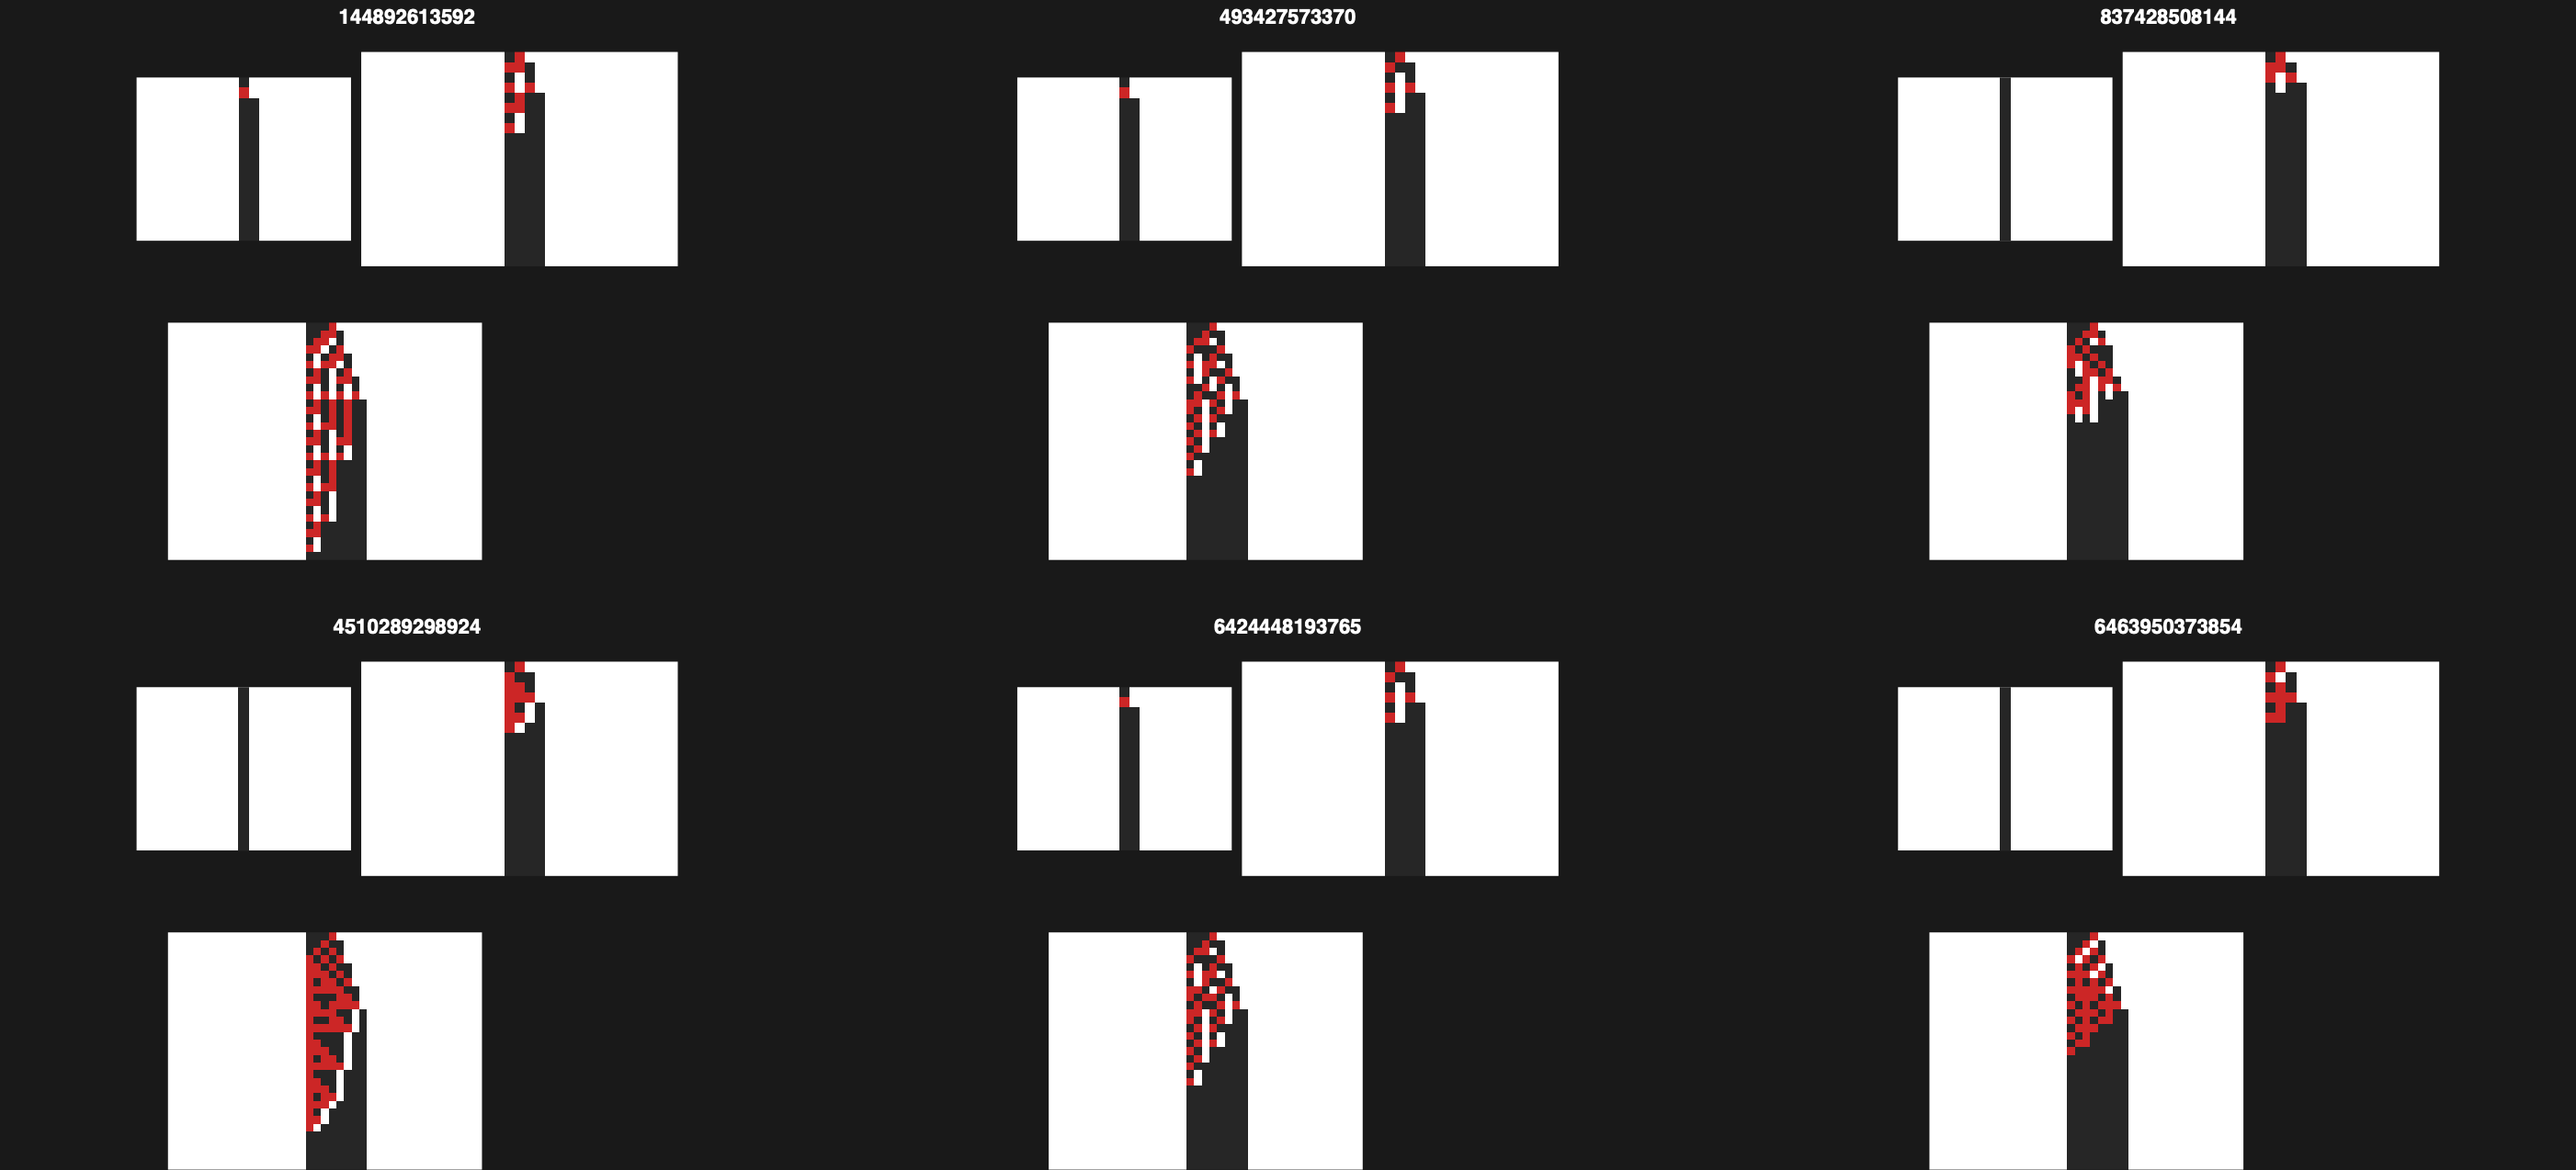
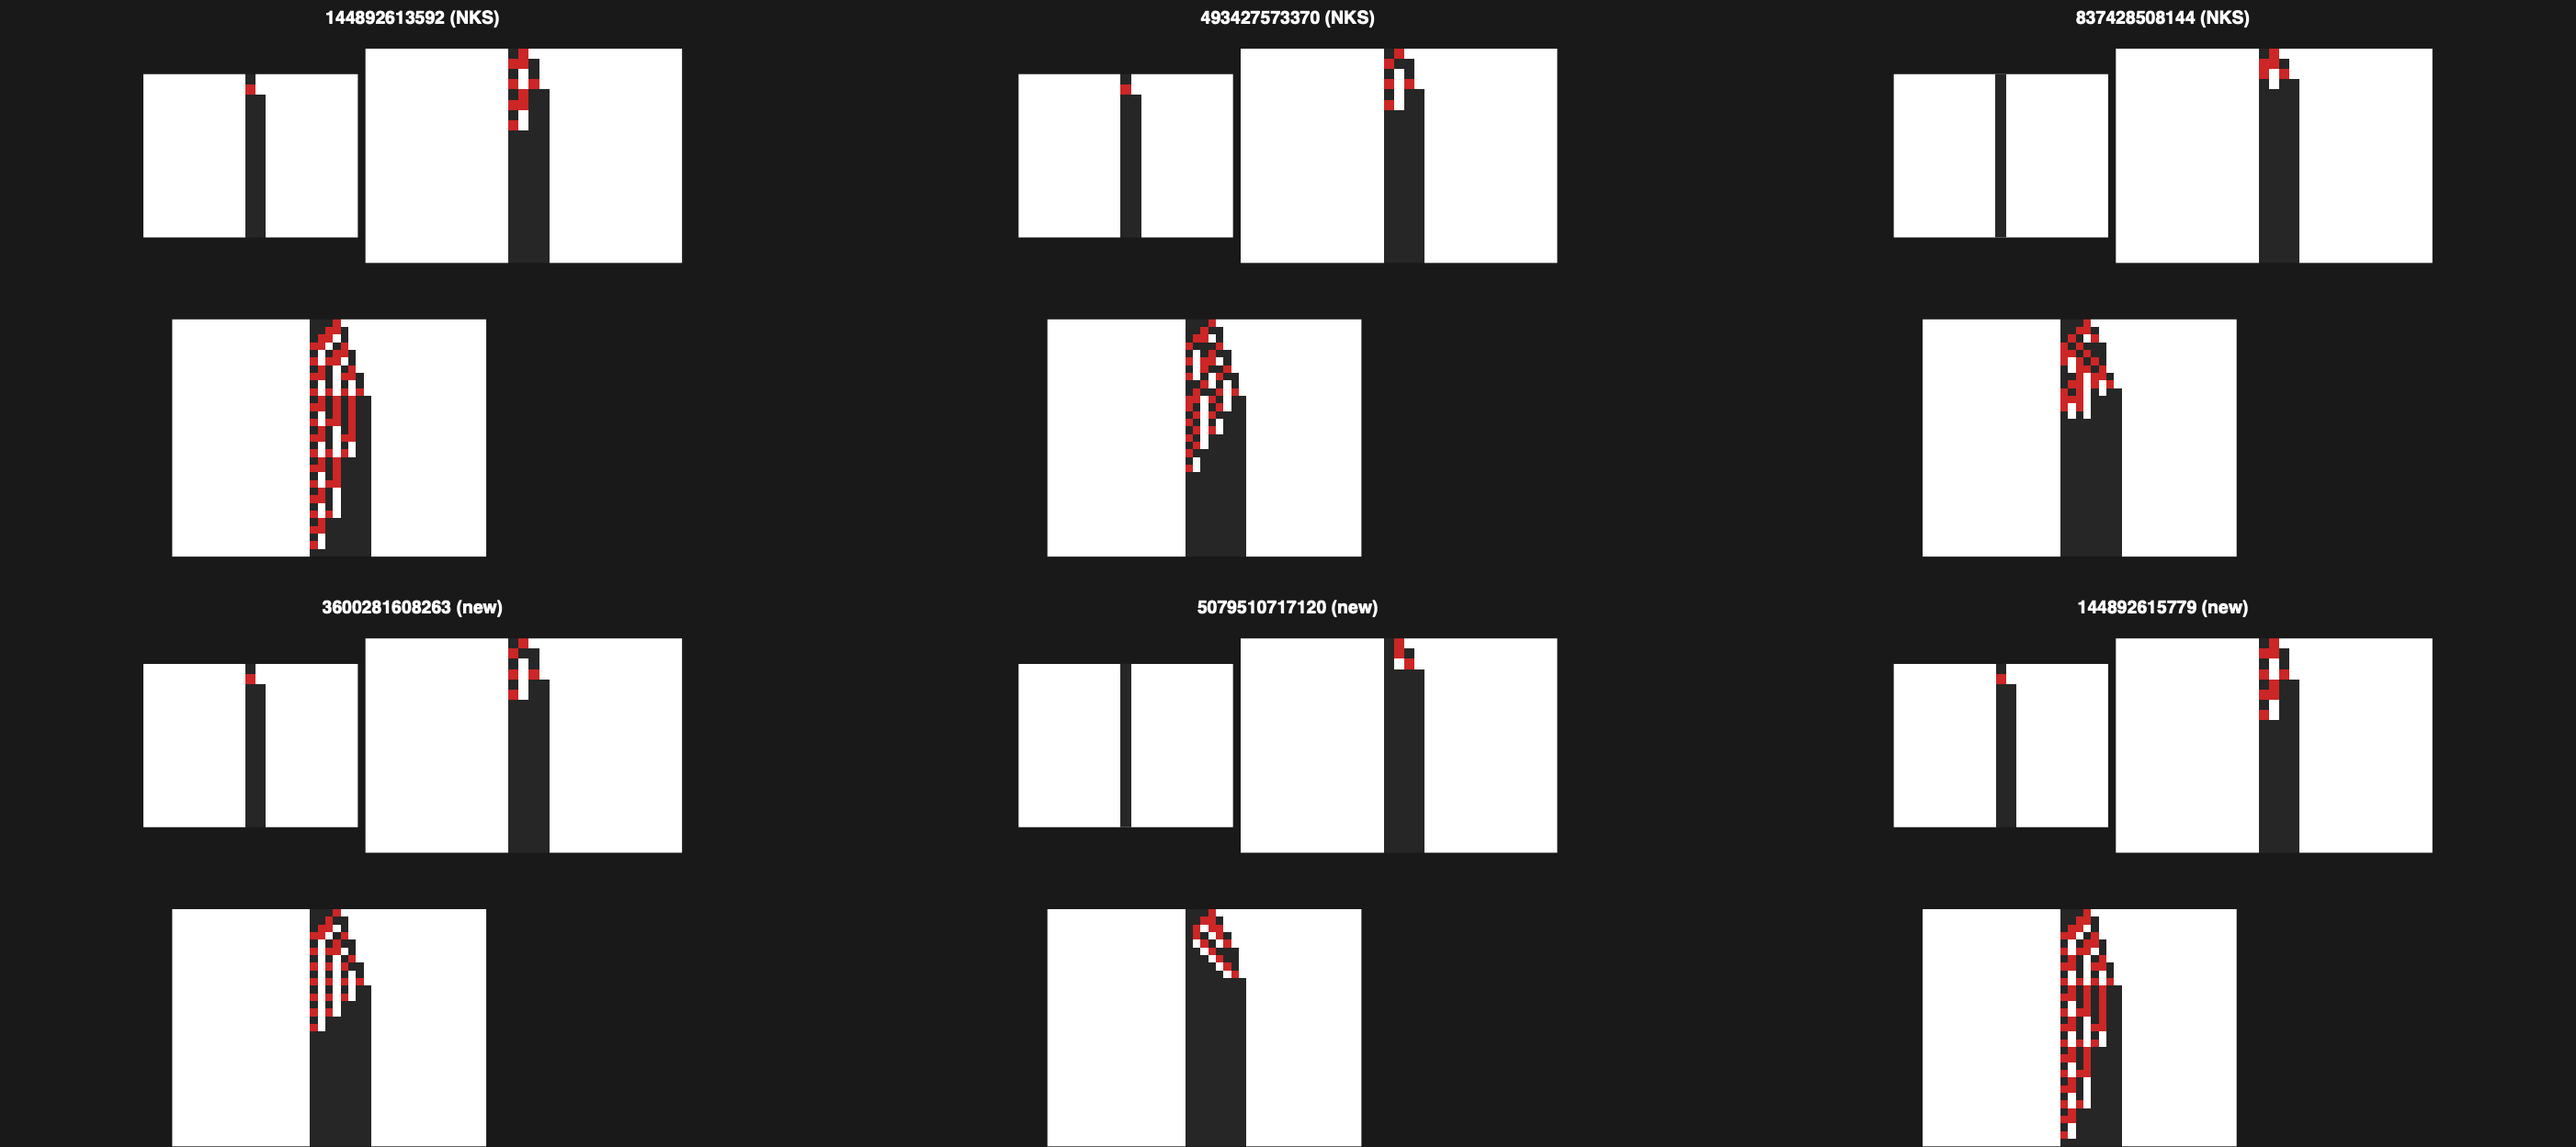
Update doubler images: mix of NKS + newly discovered rules
Regenerated doublers_mechanism.png with 3 NKS doublers and 3 newly
discovered ones from the verified doublers_found.txt (3814 rules).
All 15 random spot-checks pass: {1,2}→4, {1^3,2}→8, {1^6,2}→14.

diff --git a/CASearch_Introduction.md b/CASearch_Introduction.md
@@ -148,24 +148,24 @@ The universal doubling pattern: input `{1,...,1,2}` (n ones followed by a 2) evo
 
 ### Sample Width-Doubling Rules
 
-Six examples from the 3,814 rules discovered by exhaustive GPU search. Each column shows the same rule evolving from inputs of width 1, 2, and 4 — producing stable outputs of width 2, 4, and 8 respectively.
+Six examples from the 3,814 width-doubling rules discovered by exhaustive GPU search — three known from NKS and three newly found. Each column shows the same rule evolving from inputs of width 1, 2, and 4, producing stable outputs of width 2, 4, and 8 respectively.
 
 ![Width-doubling mechanism: each rule shown with {1}, {1,2}, and {1,1,1,2} inputs](images/doublers_mechanism.png)
 
 ```wolfram
 (* Visualize width-doubling rules: {1,2} input → width 4 output *)
-doublers = {144892613592, 493427573370, 837428508144, 4510289298924, 6424448193765, 6463950373854};
+doublers = Import["doublers_found.txt", "List"];
+showcase = doublers[[{1, 9, 10, 100, 500, 1000}]]; (* mix of NKS and new *)
 colorRules = {0 -> White, 1 -> GrayLevel[0.15], 2 -> RGBColor[0.8, 0.15, 0.15]};
 
 Grid[Partition[
   Table[
-    rule = doublers[[i]];
     evol = CellularAutomaton[{rule, 3, 1}, CenterArray[{1, 2}, 31], 20];
     Labeled[
       ArrayPlot[evol, ColorRules -> colorRules, Frame -> False, PixelConstrained -> 4],
       Style[ToString[rule], 8], Bottom
     ],
-    {i, Length[doublers]}
+    {rule, showcase}
   ],
   3
 ], Spacings -> {1, 1}]
